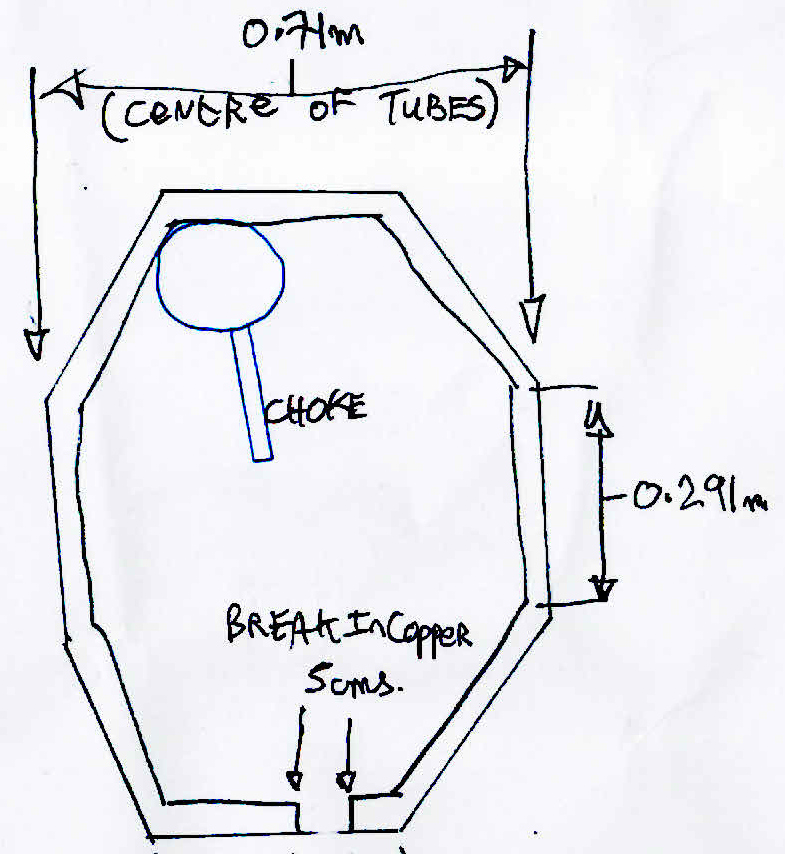
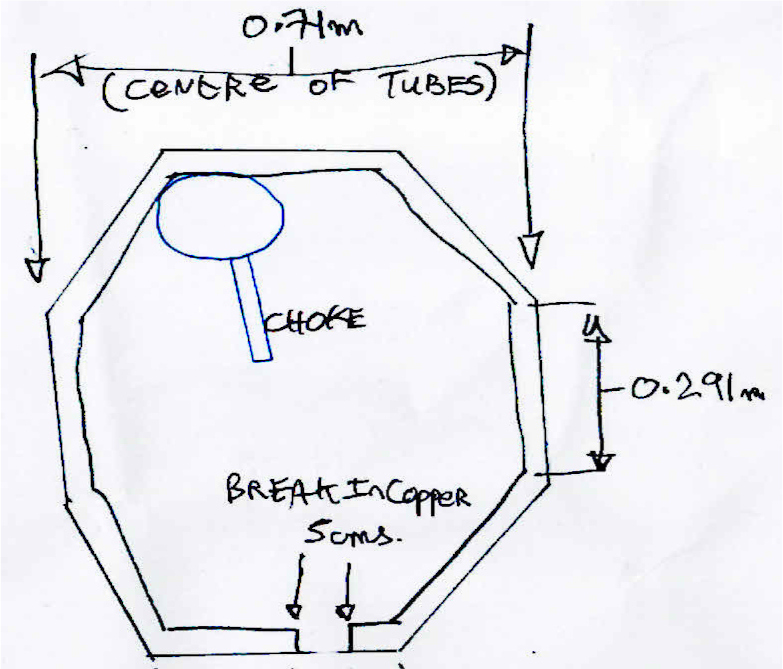
Feinschliff

diff --git a/src/antennen/foil_pvc_0_71_F4WDO/measurement.html b/src/antennen/foil_pvc_0_71_F4WDO/measurement.html
@@ -1,5 +1,5 @@
 <p>
 	The measurements were taken from the shack. The VNA was calibrated directly at the VNA. There was 20 m of LLF240 coaxial cable between the VNA and the antenna.<br>
-	The equipment used was an original small NanoVNA with NanoVNA-Saver v0.73.<br>
-	Richard performed these measurements following my instructions. The sweep range was from 0.5 MHz to 30 MHz logarithmically, with 200 segments and 20,000 measurement points. This worked extremely well, and my evaluation procedure worked perfectly.
+	The equipment used was the {{vna_device_info}} with NanoVNA-Saver v0.73.<br>
+	Richard performed these measurements following my instructions. The sweep range was from 0.5 MHz to 30 MHz logarithmically, with 200 segments and 20,000 measurement points. This worked well, and my evaluation procedure worked perfectly.
 </p>

diff --git a/src/antennen/P3_HB9BPO/measurement.html b/src/antennen/P3_HB9BPO/measurement.html
@@ -1,6 +1,6 @@
 <p>
 	The antenna measurement setup is very practical. We sit at a table about 5 m away from the antenna.<br>
-	A 10 m long LMR195 cable runs from the antenna to {{constants.VNA_INFO}}.<br>
+	A 10 m long LMR195 cable runs from the antenna to {{constants.VNA_PETER_INFO}}.<br>
 	Here we can also switch over to {{antenna.template_vars_dict['h_field_tx_info']}} as transmitter.<br>
 
 	For tuning, we measure the resonance with the VNA, and the capacitor is adjusted with a stepper motor.

diff --git a/src/shared/HB0SM/measurement.html b/src/shared/HB0SM/measurement.html
@@ -1,5 +1,5 @@
 <p>
 	The antenna measurement setup is very practical. I sit at a table about 9 m away from the antenna.<br>
-	A 10 m long LMR195 cable runs from the antenna to {{constants.VNA_INFO}}. It is just barely long enough.<br>
+	A 10 m long LMR195 cable runs from the antenna to {{constants.VNA_PETER_INFO}}. It is just barely long enough.<br>
 	After tuning with the ATU, I walk to the antenna and plug in my cable. Back and forth, again and again.
 </p>

diff --git a/src/antennen/foil_pvc_0_71_F4WDO/vna_remarks.html b/src/antennen/foil_pvc_0_71_F4WDO/vna_remarks.html
@@ -1,3 +1,4 @@
-<p>Die auswertung der messdaten vom vna ergab eine laufzeit tau von rund 65 nS.<br>
-das datenblatt vom  20 m of LLF240 ergibt eine alufzeit von 4ns/m: 80 ns total. <br>
+<p>
+    Based on the measurements, I suspect that the estimated cable length of 20 m was somewhat overestimated. It is
+    probably closer to 15 m. <br>
 </p>

diff --git a/src/antennen/foil_pvc_0_71_F4WDO/final_remarks.html b/src/antennen/foil_pvc_0_71_F4WDO/final_remarks.html
@@ -1,1 +1,2 @@
-<p>Todo</p>
+<p>This is a nice home-built antenna.<br>
+The large conductor diameter results in remarkable efficiency. It is great to see projects like this.</p>

diff --git a/src/antennenvergleich/renderer_antenna_html.py b/src/antennenvergleich/renderer_antenna_html.py
@@ -9,6 +9,7 @@ import jinja2
 from antennenvergleich import loop_directories
 from antennenvergleich.datatypes import Antenna, AntennaPlusDirectory, VnaCalibration
 from antennenvergleich.datatypes_s1p import S1pValues
+from antennenvergleich.vna_cable import VnaCableData
 
 from . import constants
 from .constants import BANDS, DIRECTORY_SRC
@@ -153,6 +154,11 @@ def write_antenna_html(entry: AntennaPlusDirectory) -> None:
         if not _is_cap_measurement_name(p.stem)
     )
 
+    vna_cable_data: VnaCableData | None = None
+    vna_cable_path = entry.directory / "vna_cable" / "vna_cable_data.py"
+    if vna_cable_path.is_file():
+        vna_cable_data = VnaCableData.read_values_file(vna_cable_path)
+
     band_centers_mhz: list[tuple[str, float]] = sorted(
         ((name, f_hz / 1e6) for name, f_hz in BANDS.f_hz_by_band_name.items()),
         key=lambda item: item[1],
@@ -221,7 +227,17 @@ def write_antenna_html(entry: AntennaPlusDirectory) -> None:
                 "f0_mhz": (f0_hz / 1e6) if isinstance(f0_hz, (int, float)) else None,
                 "bswr_khz": (bswr / 1e3) if isinstance(bswr, (int, float)) else None,
                 "alpha_db": alpha,
+                "alpha_db_datasheet": (
+                    vna_cable_data.alpha_db_at_f_hz(float(f0_hz))
+                    if vna_cable_data is not None and isinstance(f0_hz, (int, float))
+                    else None
+                ),
                 "tau_ns": tau_ns,
+                "tau_ns_datasheet": (
+                    vna_cable_data.tau_ns_at_f_hz(float(f0_hz))
+                    if vna_cable_data is not None and isinstance(f0_hz, (int, float))
+                    else None
+                ),
                 "swr_min": swr_min,
                 "eta_swr_ant": eta_ant,
             }
@@ -235,7 +251,17 @@ def write_antenna_html(entry: AntennaPlusDirectory) -> None:
                 "f0_mhz": (f0_hz / 1e6) if isinstance(f0_hz, (int, float)) else None,
                 "bswr_khz": (bswr / 1e3) if isinstance(bswr, (int, float)) else None,
                 "alpha_db": alpha,
+                "alpha_db_datasheet": (
+                    vna_cable_data.alpha_db_at_f_hz(float(f0_hz))
+                    if vna_cable_data is not None and isinstance(f0_hz, (int, float))
+                    else None
+                ),
                 "tau_ns": tau_ns,
+                "tau_ns_datasheet": (
+                    vna_cable_data.tau_ns_at_f_hz(float(f0_hz))
+                    if vna_cable_data is not None and isinstance(f0_hz, (int, float))
+                    else None
+                ),
                 "swr_min": swr_min,
                 "eta_swr_ant": eta_ant,
             }
@@ -247,11 +273,14 @@ def write_antenna_html(entry: AntennaPlusDirectory) -> None:
     environment_html_block = ""
     measurement_html_block = ""
     build_html_block = ""
+    vna_remarks_html_block = ""
     final_remarks_html_block = ""
     eta_f_svg_rel = ""
+    vna_device_info = entry.antenna.vna_device_str
     template_vars_dict: dict[str, typing.Any] = {
         "constants": constants,
         "antenna": antenna,
+        "vna_device_info": vna_device_info,
     }
 
     measurement_html_block = _load_html_fragments(
@@ -271,6 +300,13 @@ def write_antenna_html(entry: AntennaPlusDirectory) -> None:
     build_html_block = _load_html_fragments(
         antenna_data=antenna,
         filename_html=antenna.antenna_build_html,
+        base_dir=directory_s1p_results.parent,
+        destination_dir=entry.directory,
+        template_vars=template_vars_dict,
+    )
+    vna_remarks_html_block = _load_html_fragments(
+        antenna_data=antenna,
+        filename_html=antenna.vna_remarks_html,
         base_dir=directory_s1p_results.parent,
         destination_dir=entry.directory,
         template_vars=template_vars_dict,
@@ -344,6 +380,10 @@ def write_antenna_html(entry: AntennaPlusDirectory) -> None:
             f"<h2>Measurement Info</h2>\n{measurement_html_block}"
         )
 
+    vna_remarks_section_html = ""
+    if vna_remarks_html_block.strip():
+        vna_remarks_section_html = f"{vna_remarks_html_block}"
+
     build_details_section_html = ""
     if build_html_block.strip():
         build_details_section_html = f"<h2>Build Details</h2>\n{build_html_block}"
@@ -416,7 +456,9 @@ def write_antenna_html(entry: AntennaPlusDirectory) -> None:
         environment_section_html=environment_section_html,
         vna_calibration_mode=vna_calibration_mode,
         vna_calibration_href=vna_calibration_href,
+        vna_cable_data=vna_cable_data,
         vna_filelist_section=vna_filelist_section,
+        vna_remarks_section_html=vna_remarks_section_html,
         vna_smith_section=vna_smith_section,
         inductance_section_html=inductance_section_html,
         h_field_section_before_html=h_field_section_before_html,
@@ -424,7 +466,7 @@ def write_antenna_html(entry: AntennaPlusDirectory) -> None:
         h_field_measurements=h_field_measurements,
         final_remarks_section_html=final_remarks_section_html,
         eta_f_svg_rel=eta_f_svg_rel,
-        vna_info=constants.VNA_INFO,
+        vna_device_info=vna_device_info,
         compare_overview_href=compare_overview_href,
     )
     (entry.directory / "generated_antenna.html").write_text(

diff --git a/src/antennenvergleich/vna_cable.py b/src/antennenvergleich/vna_cable.py
@@ -1,0 +1,64 @@
+import dataclasses
+import importlib
+import io
+import pathlib
+
+from antennenvergleich.constants import DIRECTORY_SRC
+from antennenvergleich.datatypes import Antenna
+from antennenvergleich.h_field_analysis import FeedlineSegment, db_per_m_from_points
+
+
+@dataclasses.dataclass(frozen=True)
+class VnaCableData:
+    antennendaten: Antenna | None
+    this_antenna_dir: pathlib.Path | None
+    cables: list[FeedlineSegment]
+    connectors_count: int
+    connector_loss_db: float
+
+    def alpha_db_at_f_hz(self, f_hz: float) -> float:
+        total_db = 0.0
+        for cable in self.cables:
+            db_per_m = db_per_m_from_points(
+                points=cable.points,
+                unit=cable.unit,
+                f_hz=f_hz,
+            )
+            total_db += db_per_m * cable.length_m
+        return total_db
+
+    def tau_ns_at_f_hz(self, f_hz: float) -> float:
+        deltas_ns = 0.0
+        for cable in self.cables:
+            if cable.delay_ns_m is None:
+                continue
+            deltas_ns += cable.delay_ns_m * cable.length_m
+        return deltas_ns
+
+    @staticmethod
+    def read_values_file(filename: pathlib.Path) -> "VnaCableData":
+        relative_py = filename.resolve().relative_to(DIRECTORY_SRC)
+        module_name = ".".join(relative_py.with_suffix("").parts)
+        module = importlib.import_module(module_name)
+        module = importlib.reload(module)
+
+        cable_data = getattr(module, "vna_cable_data", None)
+        if cable_data is None:
+            raise TypeError(f"{filename.name}: vna_cable_data does not exist!")
+        if not isinstance(cable_data, VnaCableData):
+            raise TypeError(f"{filename.name}: vna_cable_data has unexpected type")
+        return cable_data
+
+    def print(self, out: io.TextIOWrapper | None = None) -> None:
+        stream = out if out is not None else io.StringIO()
+        for cable in self.cables:
+            print(
+                f"{cable.name}: length={cable.length_m} m, unit={cable.unit}",
+                file=stream,
+            )
+            if cable.delay_ns_m is not None:
+                print(f"  delay={cable.delay_ns_m} ns/m", file=stream)
+        print(f"connectors_count={self.connectors_count}", file=stream)
+        print(f"connector_loss_db={self.connector_loss_db}", file=stream)
+        if out is None:
+            print(stream.getvalue(), end="")

diff --git a/src/antennen/P3_HB9BPO/antennendaten.py b/src/antennen/P3_HB9BPO/antennendaten.py
@@ -1,4 +1,4 @@
-
+from antennenvergleich import constants
 from antennenvergleich.datatypes import (
     Antenna,
     FloatText,
@@ -35,12 +35,13 @@ ANTENNENDATEN = Antenna(
     n=IntText(1, ""),
     p_m=FloatText(0.0, ""),
     vna_calibration=VnaCalibration.ANTENNA_FEED_POINT,
+    vna_device_str=constants.VNA_PETER_INFO,
     powerP_W=FloatText(10.0, "HB9BPO: at higher power, the capacitor breaks down."),
     info_str="Mag loop made of copper tubing with an air variable capacitor.",
     overview_pictures=("images/20260827_113113142_overview.jpg",),
     inductivity_pictures=("images/20260827_115219934_cap_switch.jpg",),
-    inductivity_pictures_caption_str= "The switched capacitor is visible in the picture above.<br>" \
-    " The connections were temporarily taped to the main loop with yellow tape.<br>" \
+    inductivity_pictures_caption_str="The switched capacitor is visible in the picture above.<br>"
+    " The connections were temporarily taped to the main loop with yellow tape.<br>"
     "With two switches (only one is visible in the picture because they are exactly behind each other), the two capacitors can be switched in.",
     info_enviroment_str=f"In the garden, on a Styrofoam box on a wooden table. Center loop {_hoehe_ueber_boden_zentrum_m:0.2f} m above ground.",
     info_conductor_str="Copper tube OD 12 mm, ID 10 mm, bare surface.",

diff --git a/src/antennenvergleich/datatypes.py b/src/antennenvergleich/datatypes.py
@@ -103,9 +103,11 @@ class Antenna:
     selection_name: str = "-"
     info_thanks_str: str = ""
     vna_calibration: VnaCalibration = VnaCalibration.AT_VNA
+    vna_device_str: str = ""
     measurement_html: str | None = None
     enviroment_html: str | None = None
     antenna_build_html: str | None = None
+    vna_remarks_html: str | None = None
     final_remarks_html: str | None = None
     template_vars_dict: dict[str, str] = field(default_factory=dict)
     overview_pictures: tuple[str, ...] = field(default_factory=tuple)
@@ -124,9 +126,11 @@ class Antenna:
         assert_selection(self.selection_name)
         assert_selection(self.selection_location)
 
+        assert isinstance(self.vna_device_str, str)
         assert isinstance(self.measurement_html, str | None)
         assert isinstance(self.enviroment_html, str | None)
         assert isinstance(self.antenna_build_html, str | None)
+        assert isinstance(self.vna_remarks_html, str | None)
         assert isinstance(self.final_remarks_html, str | None)
 
         if isinstance(value, str):

diff --git a/src/antennen/foil_pvc_0_71_F4WDO/antennendaten.py b/src/antennen/foil_pvc_0_71_F4WDO/antennendaten.py
@@ -20,10 +20,11 @@ ANTENNENDATEN = Antenna(
         2 * sqrt(_AREA_FREECAD_M2 / pi),
         f"äquiv. Diameter = 2*sqrt(A/pi) mit A = {_AREA_FREECAD_M2:0.4f} m^2 from drawing Freecad.",
     ),
-    d_m=FloatText(0.045, "Scetch: Tube Diameter 45 mm."),
+    d_m=FloatText(0.0452, "Scetch: Tube Diameter 45 mm."),
     n=IntText(1, ""),
     p_m=FloatText(0.0, ""),
     vna_calibration=VnaCalibration.AT_VNA,
+    vna_device_str="'original small NanoVNA'",
     powerP_W=FloatText(30.0, "Unclear, todo."),
     info_str="Mag loop made of copper foil glued to PVC pipe, with an air-variable capacitor.",
     overview_pictures=("images/loopzoom_f4wdo_loop_2a.jpg",),
@@ -34,6 +35,7 @@ ANTENNENDATEN = Antenna(
     enviroment_html="enviroment.html",
     antenna_build_html="antenna_build.html",
     measurement_html="measurement.html",
+    vna_remarks_html="vna_remarks.html",
     final_remarks_html="final_remarks.html",
     bands=[],
 )

diff --git a/src/antennenvergleich/renderer_vna_smith_html.py b/src/antennenvergleich/renderer_vna_smith_html.py
@@ -9,7 +9,9 @@ class VnaSmithRow:
     f0_mhz: str
     bswr_khz: str
     alpha_db: str
+    alpha_db_datasheet: str
     tau_ns: str
+    tau_ns_datasheet: str
     swr_min: str
     eta_swr_ant: str
 
@@ -40,7 +42,9 @@ def build_vna_smith_section(chart_rows: list[dict[str, object]]) -> VnaSmithSect
                 f0_mhz=_fmt(row.get("f0_mhz"), 3),
                 bswr_khz=_fmt(row.get("bswr_khz"), 1),
                 alpha_db=_fmt(row.get("alpha_db"), 3),
+                alpha_db_datasheet=_fmt(row.get("alpha_db_datasheet"), 3),
                 tau_ns=_fmt(row.get("tau_ns"), 2),
+                tau_ns_datasheet=_fmt(row.get("tau_ns_datasheet"), 2),
                 swr_min=_fmt(row.get("swr_min"), 2),
                 eta_swr_ant=_fmt(row.get("eta_swr_ant"), 3),
             )

diff --git a/src/antennenvergleich/renderer_vna_filelist_html.py b/src/antennenvergleich/renderer_vna_filelist_html.py
@@ -7,7 +7,9 @@ class VnaFileListRow:
     f0_mhz: str
     bswr_khz: str
     alpha_db: str
+    alpha_db_datasheet: str
     tau_ns: str
+    tau_ns_datasheet: str
     swr_min: str
     eta_swr_ant: str
 
@@ -38,7 +40,9 @@ def build_vna_filelist_section(
                 f0_mhz=_fmt(row.get("f0_mhz"), 3),
                 bswr_khz=_fmt(row.get("bswr_khz"), 1),
                 alpha_db=_fmt(row.get("alpha_db"), 3),
+                alpha_db_datasheet=_fmt(row.get("alpha_db_datasheet"), 3),
                 tau_ns=_fmt(row.get("tau_ns"), 2),
+                tau_ns_datasheet=_fmt(row.get("tau_ns_datasheet"), 2),
                 swr_min=_fmt(row.get("swr_min"), 2),
                 eta_swr_ant=_fmt(row.get("eta_swr_ant"), 3),
             )
